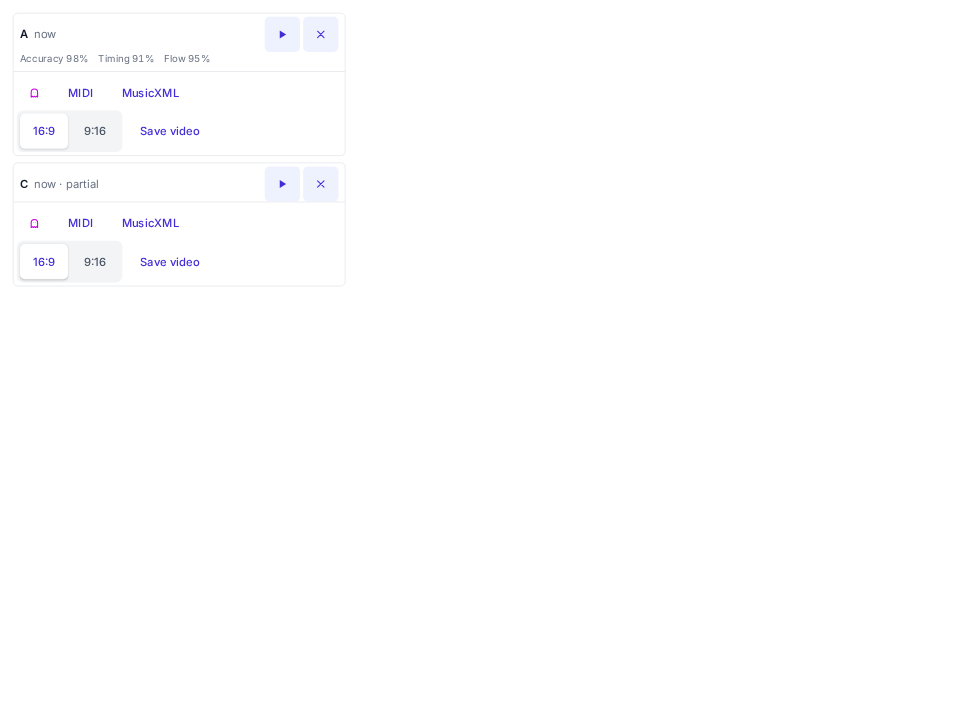
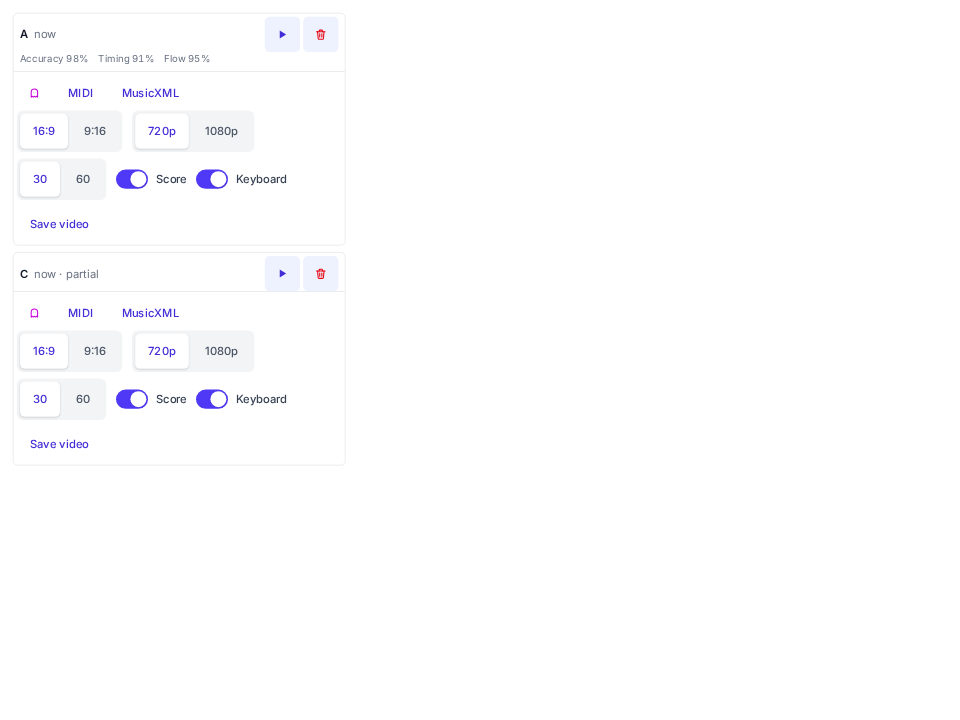
feat(runs): a red trash delete and the video export grows real options
The delete control becomes what it is — a trash can, tinted red — and
the export uses the Runs tab's room: 16:9/9:16 format, 720p/1080p
quality, 30/60 fps, and layer switches for the score and keyboard (the
keyboard switch appears only where it has an effect; portrait stays
score-only by design, and dropping the score always leaves the keys).
The encoder scales its bitrate with the pixel-and-frame load and steps
up to H.264 level 4.2 for 1080p60.

diff --git a/app/components/features/exportVideoButton.tsx b/app/components/features/exportVideoButton.tsx
@@ -11,16 +11,16 @@ import { takeScenePainter } from "../../lib/videoPainter";
 import { m } from "../../paraglide/messages.js";
 import { Button } from "../ui/button";
 import { SegmentedControl } from "../ui/segmentedControl";
+import { Switch } from "../ui/switch";
 
-// 720p at 30fps: crisp enough for any feed, small enough to render in seconds.
-// Portrait swaps the axes for the 9:16 feeds (Reels, Shorts, TikTok).
-const WIDTH = 1280;
-const HEIGHT = 720;
-const FPS = 30;
+// The base 16:9 sizes per quality step; portrait swaps the axes for the
+// vertical feeds (Reels, Shorts, TikTok).
+const SIZES = { "720": { width: 1280, height: 720 }, "1080": { width: 1920, height: 1080 } };
 
-// Renders a saved take as an MP4 — the keyboard playing itself with the
-// piece's title and credit burnt in — and downloads it. Only offered where the
-// engine can actually encode one (the exporter is asked, not sniffed); while
+// Renders a saved take as an MP4 — the score and/or keyboard playing itself
+// with the piece's title and credit burnt in — and downloads it. The Runs tab
+// gives the options room: format, quality, frame rate, and which layers the
+// stage shows. Only offered where the engine can actually encode one; while
 // rendering, the label counts progress so a long take visibly works.
 export function ExportVideoButton({
     take,
@@ -38,10 +38,11 @@ export function ExportVideoButton({
     const exporter = useVideoExporter();
     const [supported, setSupported] = useState(false);
     const [progress, setProgress] = useState<number | null>(null);
-    // Which feed the file is for: 16:9 for the landscape platforms, 9:16 for
-    // Reels/Shorts/TikTok. A picker instead of two buttons, so the choice reads
-    // before the render starts.
     const [orientation, setOrientation] = useState<"landscape" | "portrait">("landscape");
+    const [quality, setQuality] = useState<keyof typeof SIZES>("720");
+    const [fps, setFps] = useState<30 | 60>(30);
+    const [showScore, setShowScore] = useState(true);
+    const [showKeyboard, setShowKeyboard] = useState(true);
 
     useEffect(() => {
         let cancelled = false;
@@ -59,20 +60,23 @@ export function ExportVideoButton({
         return null;
     }
 
-    const save = async (width: number, height: number) => {
+    const save = async () => {
         setProgress(0);
         try {
+            const base = SIZES[quality];
+            const width = orientation === "portrait" ? base.height : base.width;
+            const height = orientation === "portrait" ? base.width : base.height;
             const notes = take.composition.notes;
             const durationMs = videoDurationMs(notes);
             // The take's own notation, rendered off-screen and rasterized once, so
             // the video shows the sheet music with each note tinted as it sounds.
             // A take the renderer can't draw exports keyboard-only instead.
-            const score = await buildScoreSnapshot(take, original);
+            const score = showScore ? await buildScoreSnapshot(take, original) : null;
             const blob = await exporter.export(
                 {
                     width,
                     height,
-                    fps: FPS,
+                    fps,
                     durationMs,
                     paint: takeScenePainter({
                         title,
@@ -82,6 +86,7 @@ export function ExportVideoButton({
                         width,
                         height,
                         score,
+                        keyboard: showKeyboard,
                     }),
                     notes,
                 },
@@ -94,7 +99,7 @@ export function ExportVideoButton({
     };
 
     return (
-        <span className="inline-flex items-center gap-1.5">
+        <div className="flex w-full flex-wrap items-center gap-x-3 gap-y-2">
             <SegmentedControl
                 options={[
                     { id: "landscape", label: "16:9" },
@@ -104,11 +109,38 @@ export function ExportVideoButton({
                 onChange={setOrientation}
                 label={m.video_orientation()}
             />
+            <SegmentedControl
+                options={[
+                    { id: "720", label: "720p" },
+                    { id: "1080", label: "1080p" },
+                ]}
+                value={quality}
+                onChange={(id) => setQuality(id as keyof typeof SIZES)}
+                label={m.video_quality()}
+            />
+            <SegmentedControl
+                options={[
+                    { id: "30", label: "30" },
+                    { id: "60", label: "60" },
+                ]}
+                value={String(fps)}
+                onChange={(id) => setFps(Number(id) as 30 | 60)}
+                label={m.video_fps()}
+            />
+            <Switch checked={showScore} onChange={setShowScore} label={m.video_show_score()} />
+            {/* Landscape can drop either layer (never both — with the score off the
+                keyboard is all that's left); portrait is score-only by design, so
+                the keyboard switch only appears where it has an effect. */}
+            {orientation === "landscape" && showScore && (
+                <Switch
+                    checked={showKeyboard}
+                    onChange={setShowKeyboard}
+                    label={m.video_show_keyboard()}
+                />
+            )}
             <Button
                 variant="ghost"
-                onClick={() =>
-                    orientation === "portrait" ? save(HEIGHT, WIDTH) : save(WIDTH, HEIGHT)
-                }
+                onClick={save}
                 disabled={progress !== null}
                 aria-label={
                     orientation === "portrait"
@@ -120,6 +152,6 @@ export function ExportVideoButton({
                     ? m.takes_download_video()
                     : m.takes_video_progress({ percent: Math.round(progress * 100) })}
             </Button>
-        </span>
+        </div>
     );
 }

diff --git a/app/components/features/exportVideoButton.test.tsx b/app/components/features/exportVideoButton.test.tsx
@@ -81,4 +81,31 @@ describe("ExportVideoButton", () => {
         expect(exportMock.mock.calls[0]?.[0]?.width).toBe(720);
         expect(exportMock.mock.calls[0]?.[0]?.height).toBe(1280);
     });
+
+    it("scales the encode to the picked quality and frame rate", async () => {
+        const exportMock = vi.fn<VideoExporter["export"]>(
+            async () => new Blob(["mp4"], { type: "video/mp4" }),
+        );
+        mount({ supported: async () => true, export: exportMock });
+        fireEvent.click(await screen.findByRole("tab", { name: "1080p" }));
+        fireEvent.click(screen.getByRole("tab", { name: "60" }));
+        fireEvent.click(screen.getByRole("button", { name: "Save video" }));
+        await waitFor(() => expect(downloadName).toBe("Menuet-take.mp4"));
+        expect(exportMock.mock.calls[0]?.[0]?.width).toBe(1920);
+        expect(exportMock.mock.calls[0]?.[0]?.height).toBe(1080);
+        expect(exportMock.mock.calls[0]?.[0]?.fps).toBe(60);
+    });
+
+    it("hides the keyboard switch where it has no effect", async () => {
+        mount({ supported: async () => true, export: vi.fn() });
+        // Landscape with the score on offers it…
+        expect(await screen.findByRole("switch", { name: "Keyboard" })).toBeTruthy();
+        // …the score off leaves only the keyboard, so the switch goes…
+        fireEvent.click(screen.getByRole("switch", { name: "Score" }));
+        expect(screen.queryByRole("switch", { name: "Keyboard" })).toBeNull();
+        // …and portrait is score-only by design.
+        fireEvent.click(screen.getByRole("switch", { name: "Score" }));
+        fireEvent.click(screen.getByRole("tab", { name: "9:16" }));
+        expect(screen.queryByRole("switch", { name: "Keyboard" })).toBeNull();
+    });
 });

diff --git a/app/lib/videoPainter.browser.test.ts b/app/lib/videoPainter.browser.test.ts
@@ -121,6 +121,29 @@ describe("takeScenePainter with a score panel", () => {
         expect(countGreyPixels(paintWithScore(0))).toBeGreaterThan(5_000);
     });
 
+    it("hands the whole stage to the score when the keyboard is dropped by choice", () => {
+        // Landscape, keyboard off: the score panel takes the keyboard's band too,
+        // so the sheet paints far more pixels than the shared layout shows.
+        const paintLayout = (keyboard: boolean) => {
+            const canvas = new OffscreenCanvas(WIDTH, HEIGHT);
+            const context = canvas.getContext("2d")!;
+            takeScenePainter({
+                title: "Menuet",
+                credit: "Menuet · J. S. Bach · CC0",
+                notes: [{ pitch: 60, startMs: 0, durationMs: 400, velocity: 100 }],
+                durationMs: LEAD_IN_MS + 2_000,
+                width: WIDTH,
+                height: HEIGHT,
+                score,
+                keyboard,
+            })(context, 0);
+            return context;
+        };
+        const withKeys = countGreyPixels(paintLayout(true));
+        const scoreOnly = countGreyPixels(paintLayout(false));
+        expect(scoreOnly).toBeGreaterThan(withKeys * 1.5);
+    });
+
     it("tints the played step's noteheads once its onset passes", () => {
         // The tint blends accent over the grey sheet, eating grey pixels.
         const before = countGreyPixels(paintWithScore(0));

diff --git a/app/adapters/webCodecsVideo.ts b/app/adapters/webCodecsVideo.ts
@@ -14,9 +14,11 @@ import { EXPORT_SAMPLE_RATE, renderTakeAudio } from "./offlineAudio";
 // both encoders today; supported() asks the engine about the exact
 // configurations, so anything less capable simply reports unsupported.
 
-// H.264 High profile, level 4.0 — comfortably covers 720p at any fps we ask
-// for, and hardware-decodes everywhere a video might be shared.
-const VIDEO_CODEC = "avc1.640028";
+// H.264 High profile — level 4.0 comfortably covers 720p (and 1080p30);
+// 1080p60 needs level 4.2. Both hardware-decode everywhere a video might be
+// shared.
+const VIDEO_CODEC_L40 = "avc1.640028";
+const VIDEO_CODEC_L42 = "avc1.64002a";
 // AAC-LC, the plain stereo audio every player expects inside an MP4 — but the
 // AAC encoder is licensed and plain Chromium ships without it, so Opus (which
 // mp4-muxer can also carry in an MP4, and every modern player decodes) is the
@@ -26,6 +28,8 @@ const AUDIO_CODECS = [
     { codec: "opus", container: "opus" as const },
 ];
 const AUDIO_BITRATE = 192_000;
+// The 720p30 reference bitrate; more pixels or frames scale it up so 1080p60
+// doesn't smear at a 720p budget.
 const VIDEO_BITRATE = 6_000_000;
 // A keyframe every two seconds keeps seeking snappy without bloating the file.
 const KEYFRAME_INTERVAL_MS = 2_000;
@@ -33,11 +37,12 @@ const KEYFRAME_INTERVAL_MS = 2_000;
 const AUDIO_CHUNK_FRAMES = 4_096;
 
 function videoConfig(input: Pick<VideoExportInput, "width" | "height" | "fps">) {
+    const load = (input.width * input.height * input.fps) / (1280 * 720 * 30);
     return {
-        codec: VIDEO_CODEC,
+        codec: load > 3 ? VIDEO_CODEC_L42 : VIDEO_CODEC_L40,
         width: input.width,
         height: input.height,
-        bitrate: VIDEO_BITRATE,
+        bitrate: Math.round(VIDEO_BITRATE * Math.max(1, load)),
         framerate: input.fps,
     } satisfies VideoEncoderConfig;
 }

diff --git a/app/lib/videoPainter.ts b/app/lib/videoPainter.ts
@@ -60,6 +60,9 @@ export type ScenePainterInput = {
     height: number;
     // Optional notation panel; without it the keyboard fills the stage as before.
     score?: SceneScore | null;
+    // Whether the on-screen keyboard is part of the stage. Off hands the whole
+    // stage to the notation (ignored when there is no score to show instead).
+    keyboard?: boolean;
 };
 
 type Context2D = Pick<
@@ -103,14 +106,16 @@ export function takeScenePainter({
     width,
     height,
     score = null,
+    keyboard = true,
 }: ScenePainterInput): (context: Context2D, timeMs: number) => void {
     const { from, to } = sceneRange(notes.map((note) => note.pitch));
     const keys = sceneKeys(from, to);
-    // With a notation panel the keyboard cedes the middle of the stage to it —
-    // and a portrait frame drops the keyboard entirely: on the vertical feeds
-    // the notation is the story, and the full-height panel keeps its glyphs
-    // readable on a phone.
-    const scoreOnly = score !== null && height > width;
+    // With a notation panel the keyboard cedes the middle of the stage to it.
+    // A portrait frame drops the keyboard entirely (on the vertical feeds the
+    // notation is the story, and the full-height panel keeps its glyphs readable
+    // on a phone), and the exporter can drop it by choice — but only when a
+    // score exists to fill the stage instead.
+    const scoreOnly = score !== null && (height > width || !keyboard);
     const keyboardTop = score ? height * 0.66 : height * 0.42;
     const keyboardHeight = score ? height * 0.24 : height * 0.4;
     const margin = Math.round(width * 0.05);

diff --git a/app/components/ui/icons.tsx b/app/components/ui/icons.tsx
@@ -350,6 +350,19 @@ export function FingersIcon({ className }: IconProps) {
     );
 }
 
+// A trash can — destructive delete, always paired with a red tint.
+export function TrashIcon({ className }: IconProps) {
+    return (
+        <Icon className={className}>
+            <path d="M4 7h16" />
+            <path d="M9 7V5a1 1 0 0 1 1-1h4a1 1 0 0 1 1 1v2" />
+            <path d="M6 7l1 12a2 2 0 0 0 2 2h6a2 2 0 0 0 2-2l1-12" />
+            <path d="M10 11v6" />
+            <path d="M14 11v6" />
+        </Icon>
+    );
+}
+
 // A piano-keys outline — the keyboard fold toggle.
 export function KeysIcon({ className }: IconProps) {
     return (

diff --git a/app/components/features/takesPanel.tsx b/app/components/features/takesPanel.tsx
@@ -9,7 +9,7 @@ import { ghostOnsets, type Take } from "../../../core/takes";
 import { m } from "../../paraglide/messages.js";
 import { getLocale } from "../../paraglide/runtime.js";
 import { Button, IconButton } from "../ui/button";
-import { CloseIcon, PlayIcon, StopIcon } from "../ui/icons";
+import { PlayIcon, StopIcon, TrashIcon } from "../ui/icons";
 import { ExportVideoButton } from "./exportVideoButton";
 import type { OriginalScore } from "../../lib/scoreSnapshot";
 import { ShareGhostButton } from "./shareGhostButton";
@@ -126,8 +126,9 @@ export function TakesPanel({
                                         <IconButton
                                             label={m.takes_delete()}
                                             onClick={() => onDelete(take.id)}
+                                            className="text-red-600 dark:text-red-400"
                                         >
-                                            <CloseIcon />
+                                            <TrashIcon />
                                         </IconButton>
                                     </span>
                                 </div>